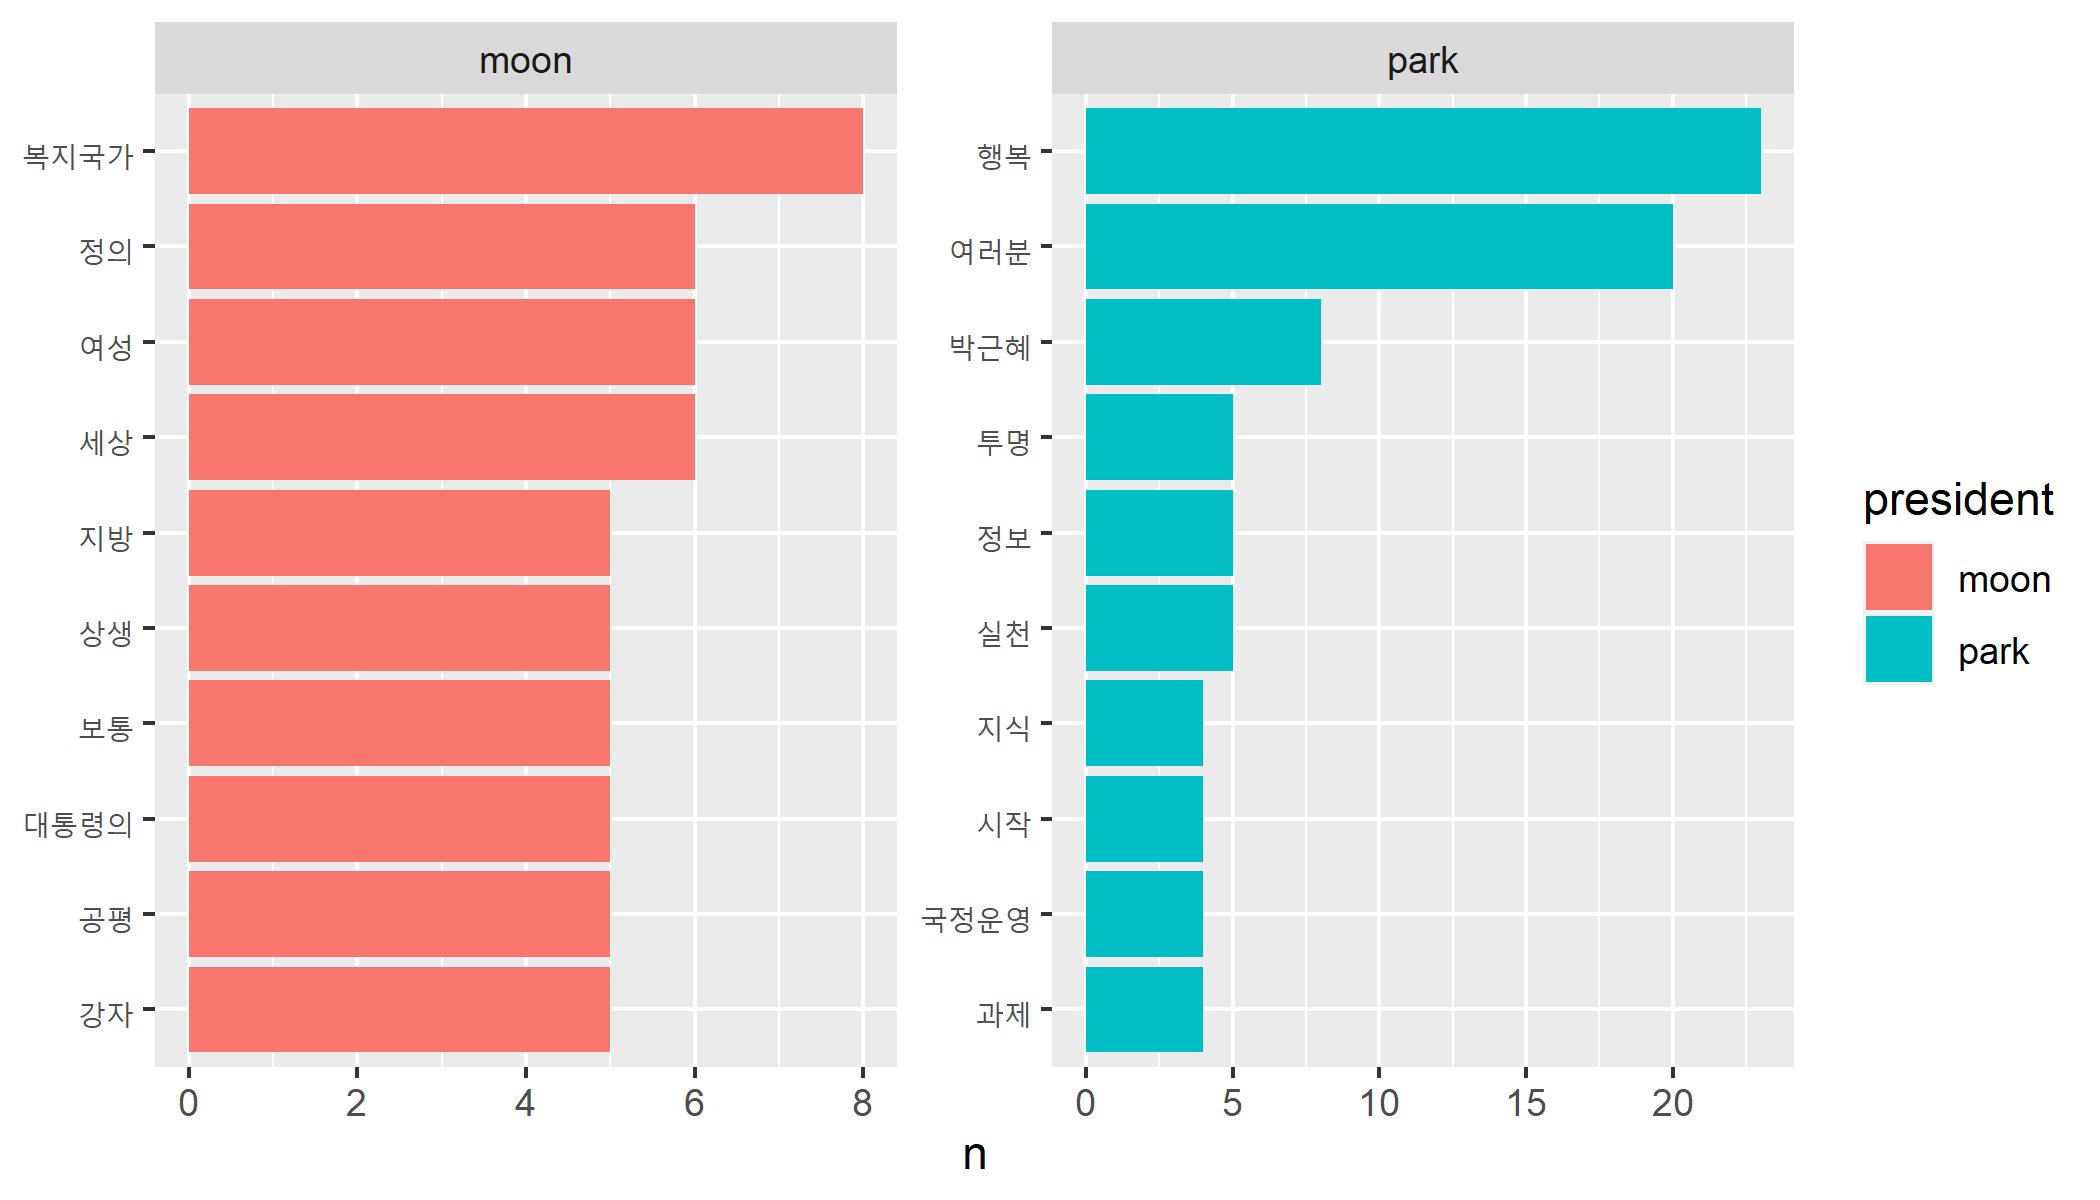
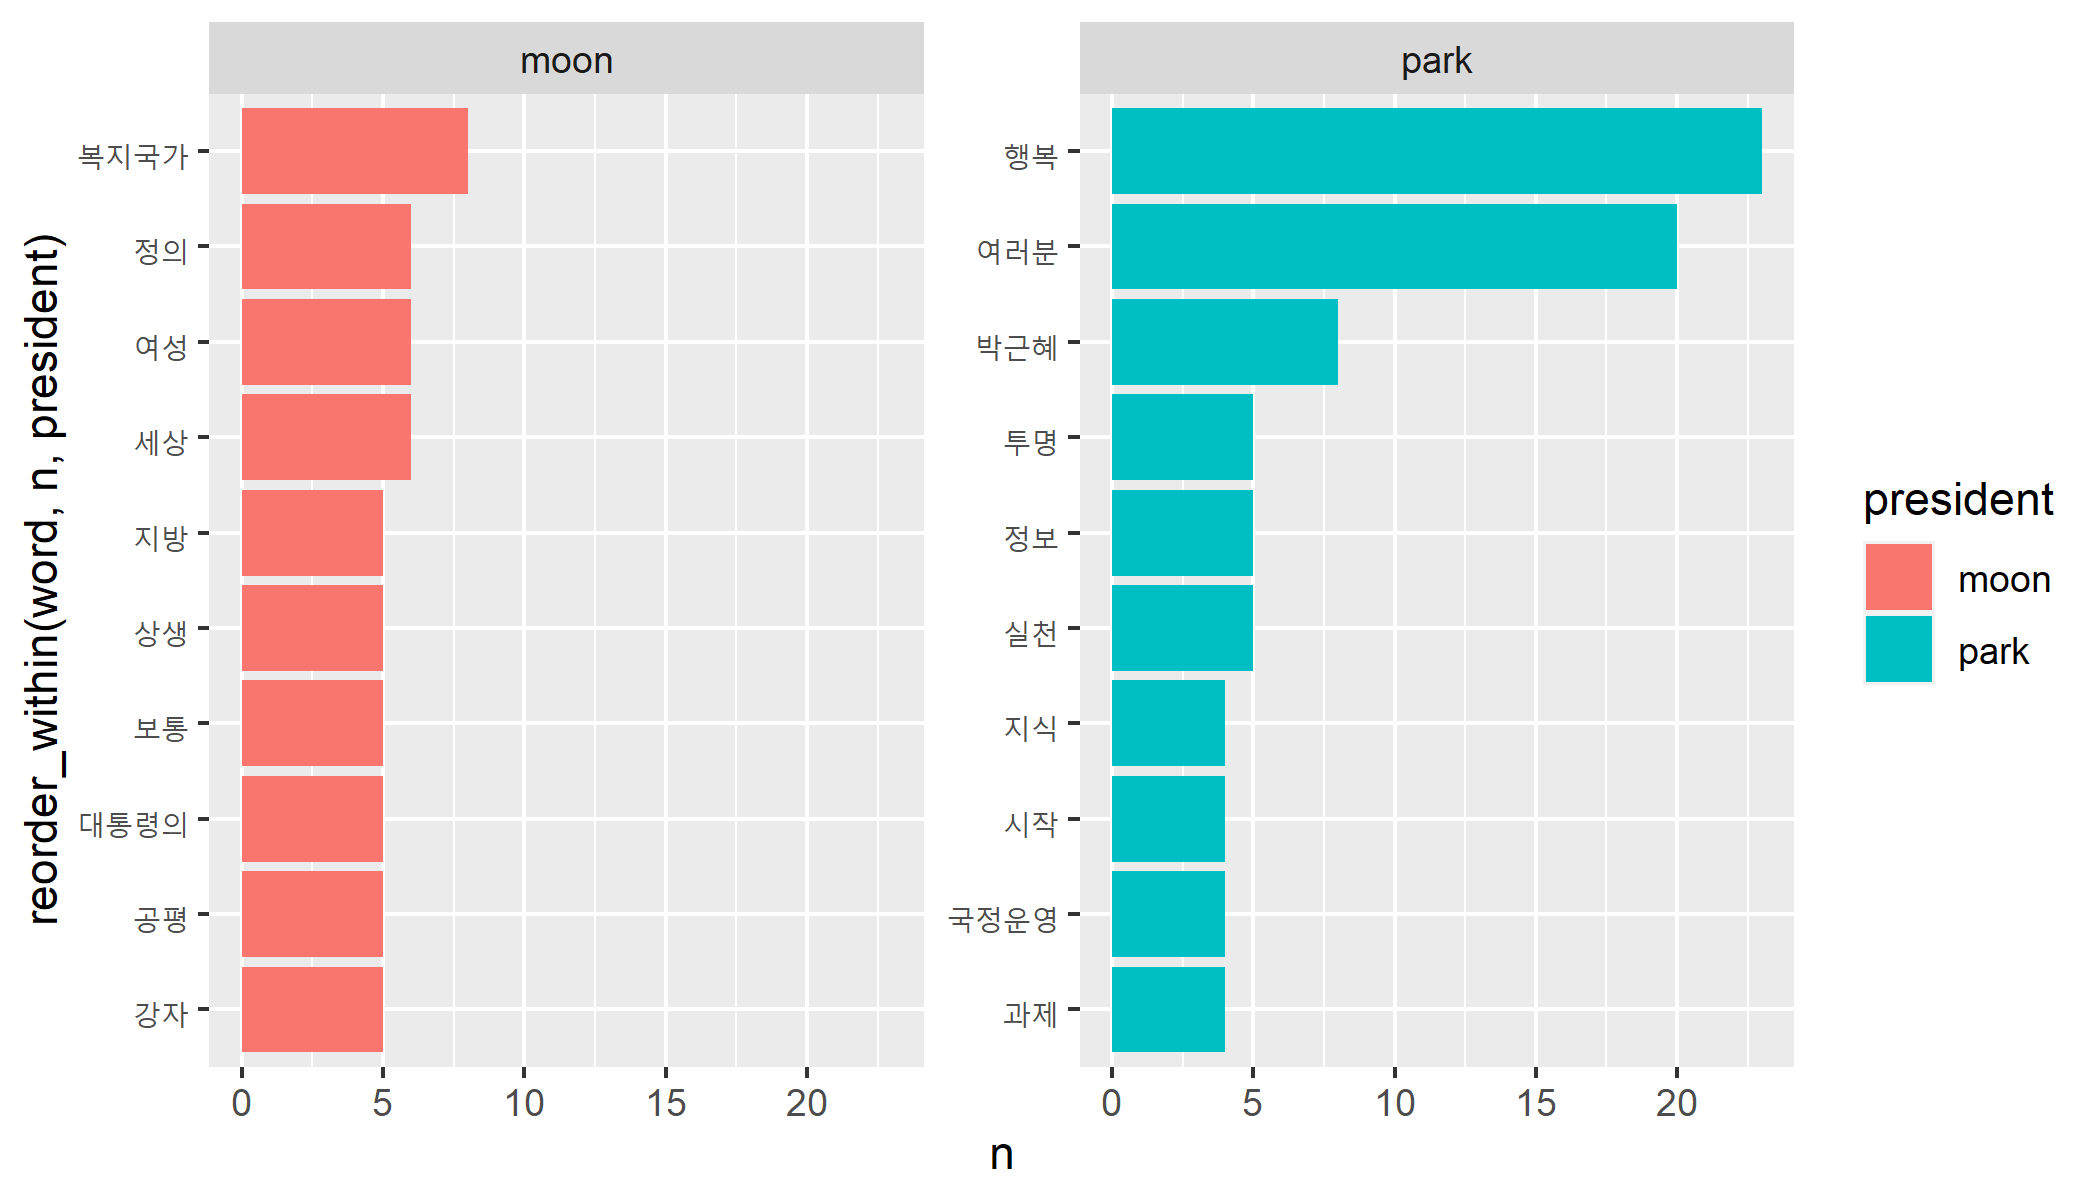
03

diff --git a/docs/03-comparing.html b/docs/03-comparing.html
@@ -861,6 +861,9 @@ df_long &lt;- frequency %&gt;%
 df_long
 ```
 
+&lt;br-back-10&gt;
+
+
 ```
 ## # A tibble: 6 x 3
 ## # Groups:   president [2]
@@ -1482,7 +1485,7 @@ ggplot(top10, aes(x = reorder_within(word, n, president),
   scale_x_reordered()
 ```
 
-&lt;img src="03-comparing_files/figure-html/unnamed-chunk-69-1.png" width="60%" /&gt;
+&lt;img src="03-comparing_files/figure-html/unnamed-chunk-70-1.png" width="60%" /&gt;
 
 
 ---
@@ -1491,7 +1494,7 @@ ggplot(top10, aes(x = reorder_within(word, n, president),
 - `"park"`의 `"행복"` 빈도 기준으로 두 그래프의 x축 크기를 똑같이 고정했기 때문
 
 
-&lt;img src="03-comparing_files/figure-html/unnamed-chunk-70-1.png" width="80%" /&gt;
+&lt;img src="03-comparing_files/figure-html/unnamed-chunk-71-1.png" width="80%" /&gt;
 
 ---
 
@@ -1512,7 +1515,7 @@ ggplot(top10, aes(x = reorder_within(word, n, president),
   theme(text = element_text(family = "nanumgothic"))  # 폰트
 ```
 
-&lt;img src="03-comparing_files/figure-html/unnamed-chunk-71-1.png" width="40%" /&gt;
+&lt;img src="03-comparing_files/figure-html/unnamed-chunk-72-1.png" width="40%" /&gt;
 
 ---
 &lt;svg viewBox="0 0 576 512" xmlns="http://www.w3.org/2000/svg" style="height:1em;position:relative;display:inline-block;top:.1em;fill:#FF7333;"&gt;  [ comment ]  &lt;path d="M569.517 440.013C587.975 472.007 564.806 512 527.94 512H48.054c-36.937 0-59.999-40.055-41.577-71.987L246.423 23.985c18.467-32.009 64.72-31.951 83.154 0l239.94 416.028zM288 354c-25.405 0-46 20.595-46 46s20.595 46 46 46 46-20.595 46-46-20.595-46-46-46zm-43.673-165.346l7.418 136c.347 6.364 5.609 11.346 11.982 11.346h48.546c6.373 0 11.635-4.982 11.982-11.346l7.418-136c.375-6.874-5.098-12.654-11.982-12.654h-63.383c-6.884 0-12.356 5.78-11.981 12.654z"&gt;&lt;/path&gt;&lt;/svg&gt;  **x축 크기가 그래프마다 다르므로 해석 조심**
@@ -1521,7 +1524,7 @@ ggplot(top10, aes(x = reorder_within(word, n, president),
 - 두 텍스트 단어 빈도 비교 X
 - 각 텍스트에서 상대적으로 중요한 단어가 무엇인지 중심으로 해석
 
-&lt;img src="03-comparing_files/figure-html/unnamed-chunk-72-1.png" width="80%" /&gt;
+&lt;img src="03-comparing_files/figure-html/unnamed-chunk-73-1.png" width="80%" /&gt;
 
 ---
 
@@ -1964,9 +1967,6 @@ top10 %&gt;%
   select(word, log_odds_ratio, president)
 ```
 
----
-
-
 ```
 ## # A tibble: 20 x 3
 ## # Groups:   president [2]
@@ -1982,16 +1982,7 @@ top10 %&gt;%
 ##  8 보통               1.56 moon     
 ##  9 상생               1.56 moon     
 ## 10 지방               1.56 moon     
-## 11 과제              -1.84 park     
-## 12 국정운영          -1.84 park     
-## 13 시작              -1.84 park     
-## 14 지식              -1.84 park     
-## 15 행복              -2.03 park     
-## 16 실천              -2.03 park     
-## 17 정보              -2.03 park     
-## 18 투명              -2.03 park     
-## 19 여러분            -2.18 park     
-## 20 박근혜            -2.43 park
+## # ... with 10 more rows
 ```
 
 ---
@@ -2059,7 +2050,7 @@ top10 %&gt;%
 
 
 ---
-
+.box[
 **오즈비 기준 상·하위 10개 추출했을 때와 단어 동일**
 
 
@@ -2068,9 +2059,13 @@ frequency_wide %&gt;%
   filter(rank(odds_ratio) &lt;= 10 | rank(-odds_ratio) &lt;= 10) %&gt;%
   arrange(-odds_ratio)
 ```
-
+]
 
 ---
+
+.box[
+
+&lt;br-back-20&gt;
 
 
 ```
@@ -2098,7 +2093,7 @@ frequency_wide %&gt;%
 ## 19 여러분       2    20   0.00131    0.0116       0.113           -2.18
 ## 20 박근혜       0     8   0.000436   0.00496      0.0879          -2.43
 ```
-
+]
 
 
 
